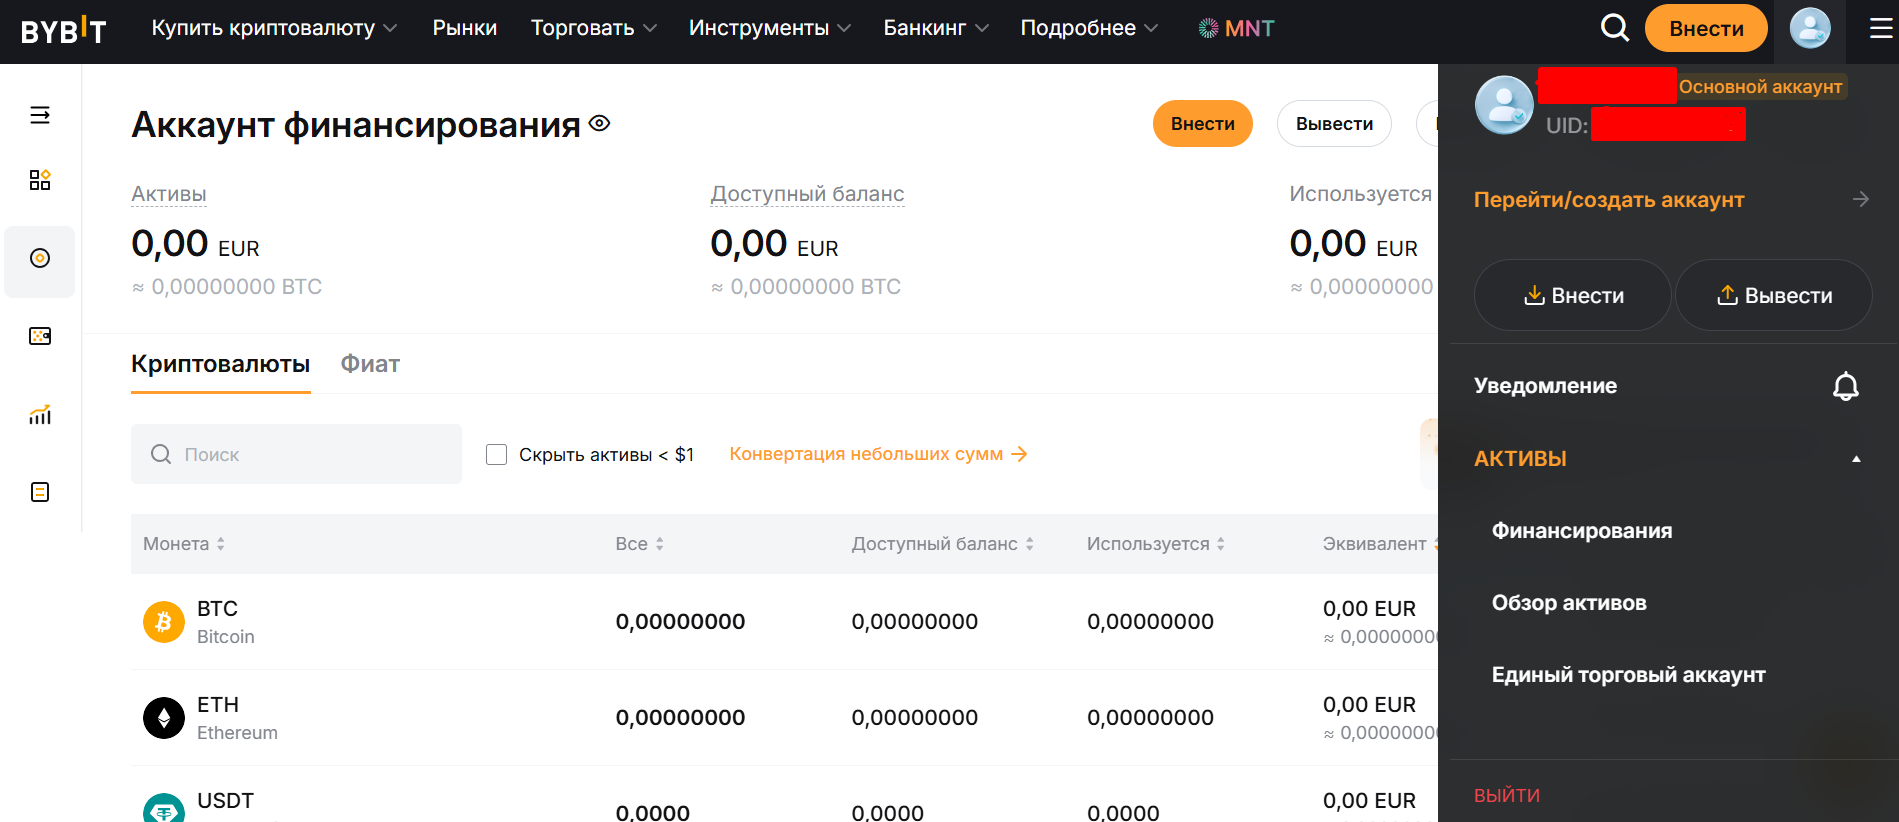
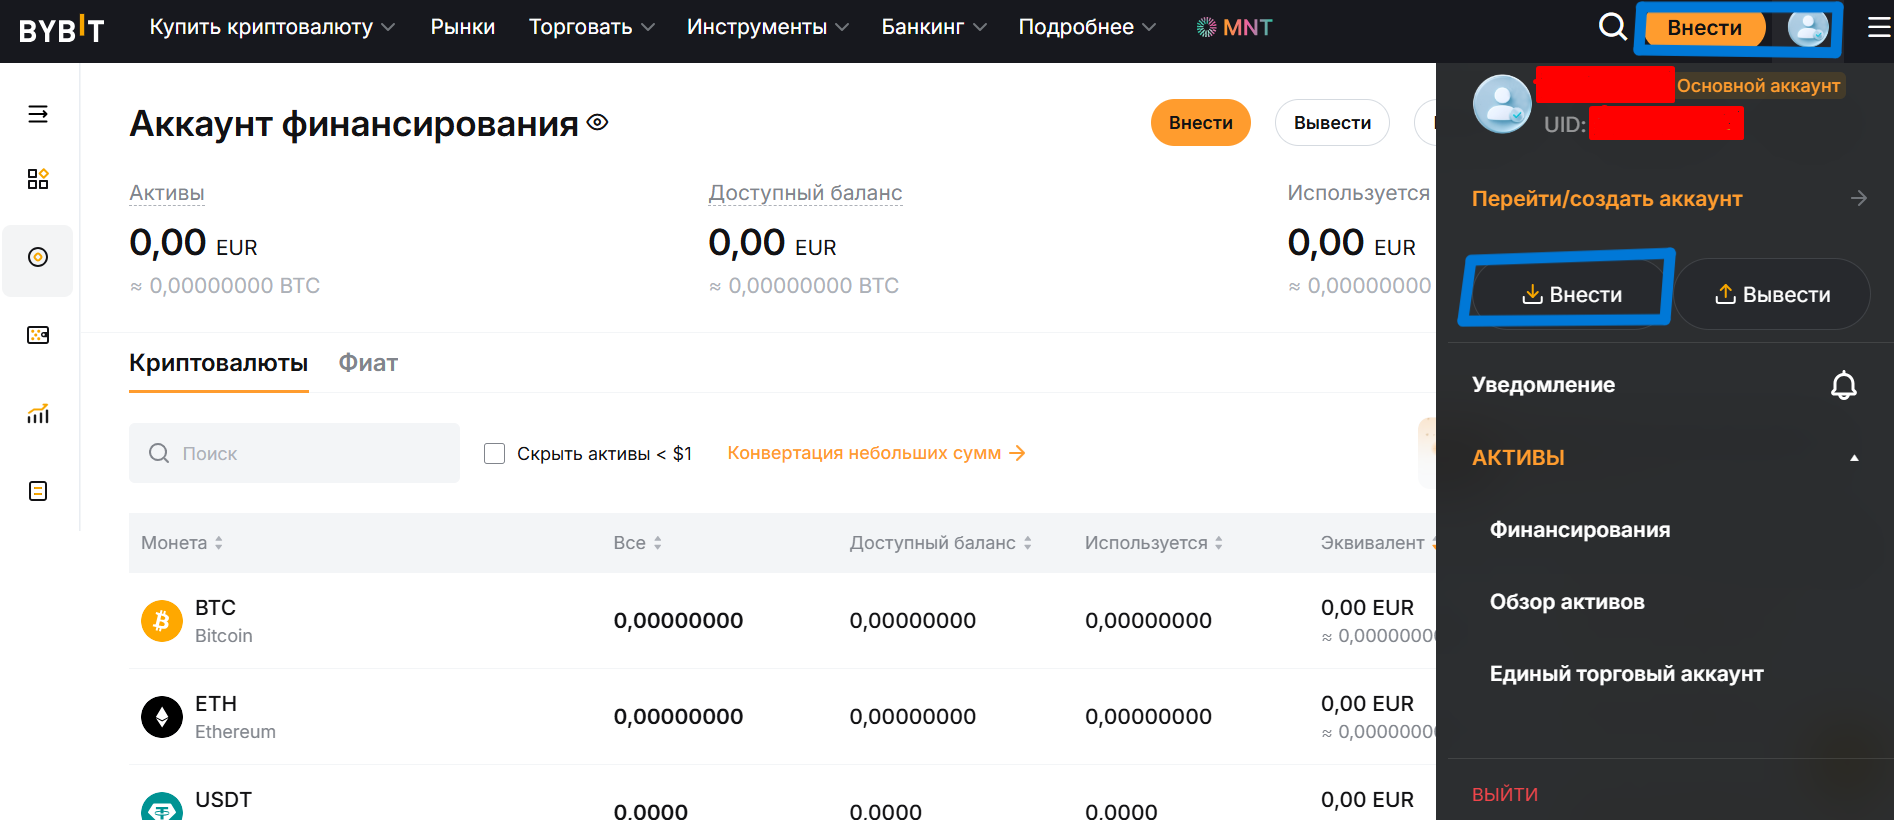
изменения о счетах

diff --git a/index.html b/index.html
@@ -97,7 +97,7 @@
                 </div>
             </li>
             <li>
-                В разделе <strong>Assets (Активы)</strong> выберите "Deposit"(Внести).
+                В разделе <strong>"Account"(Аккаунт)</strong> выберите "Deposit"(Внести).
                 <input type="checkbox" id="bybit-step3-modal" class="modal-toggle" hidden>
                 <span class="screenshot-tooltip">
                 <label for="bybit-step3-modal" class="screenshot-link" tabindex="0">Скриншот</label>
@@ -175,7 +175,8 @@
                         </div>
                     </li>
                     <li>
-                        Выберите монету. Вставьте адрес получателя.
+                        Выберите монету. Вставьте адрес получателя.(Для перевода монет предварительно переведите их со счета "Единый торговый" на счет "Аккаунт финансирования"
+
                         <input type="checkbox" id="bybit-transfer-step2-modal" class="modal-toggle" hidden>
                         <span class="screenshot-tooltip">
                         <label for="bybit-transfer-step2-modal" class="screenshot-link" tabindex="0">Скриншот</label>
